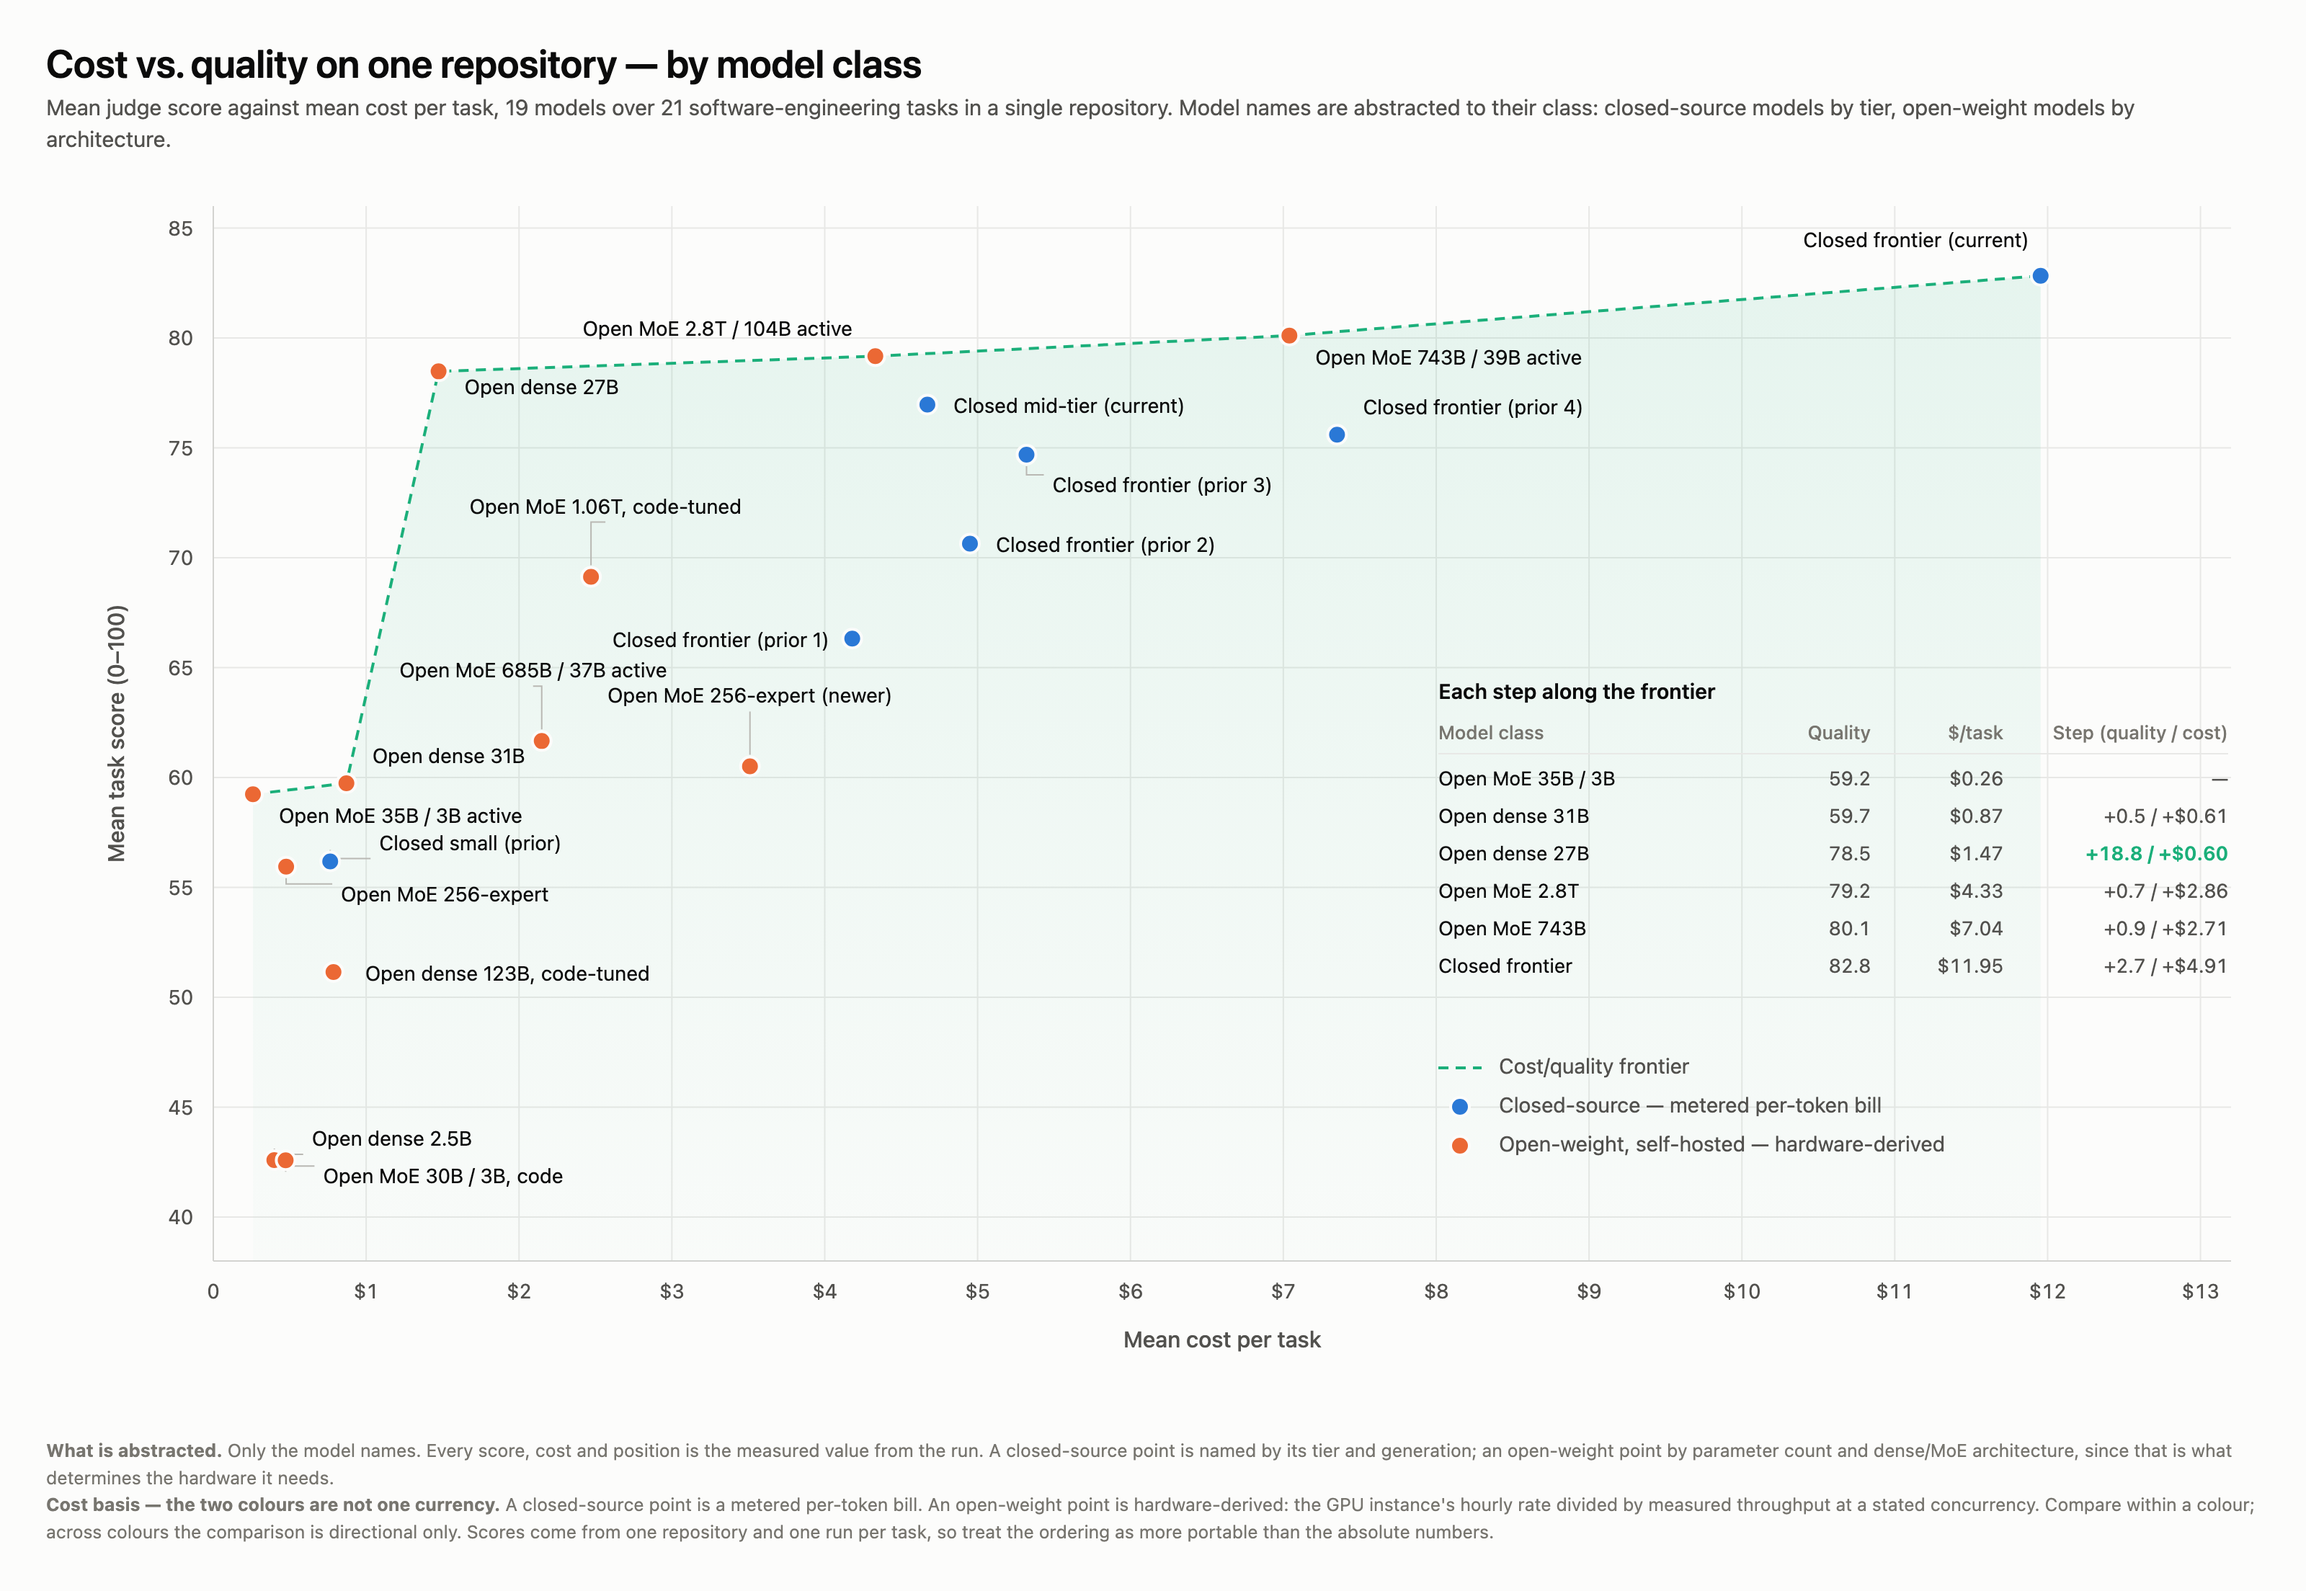
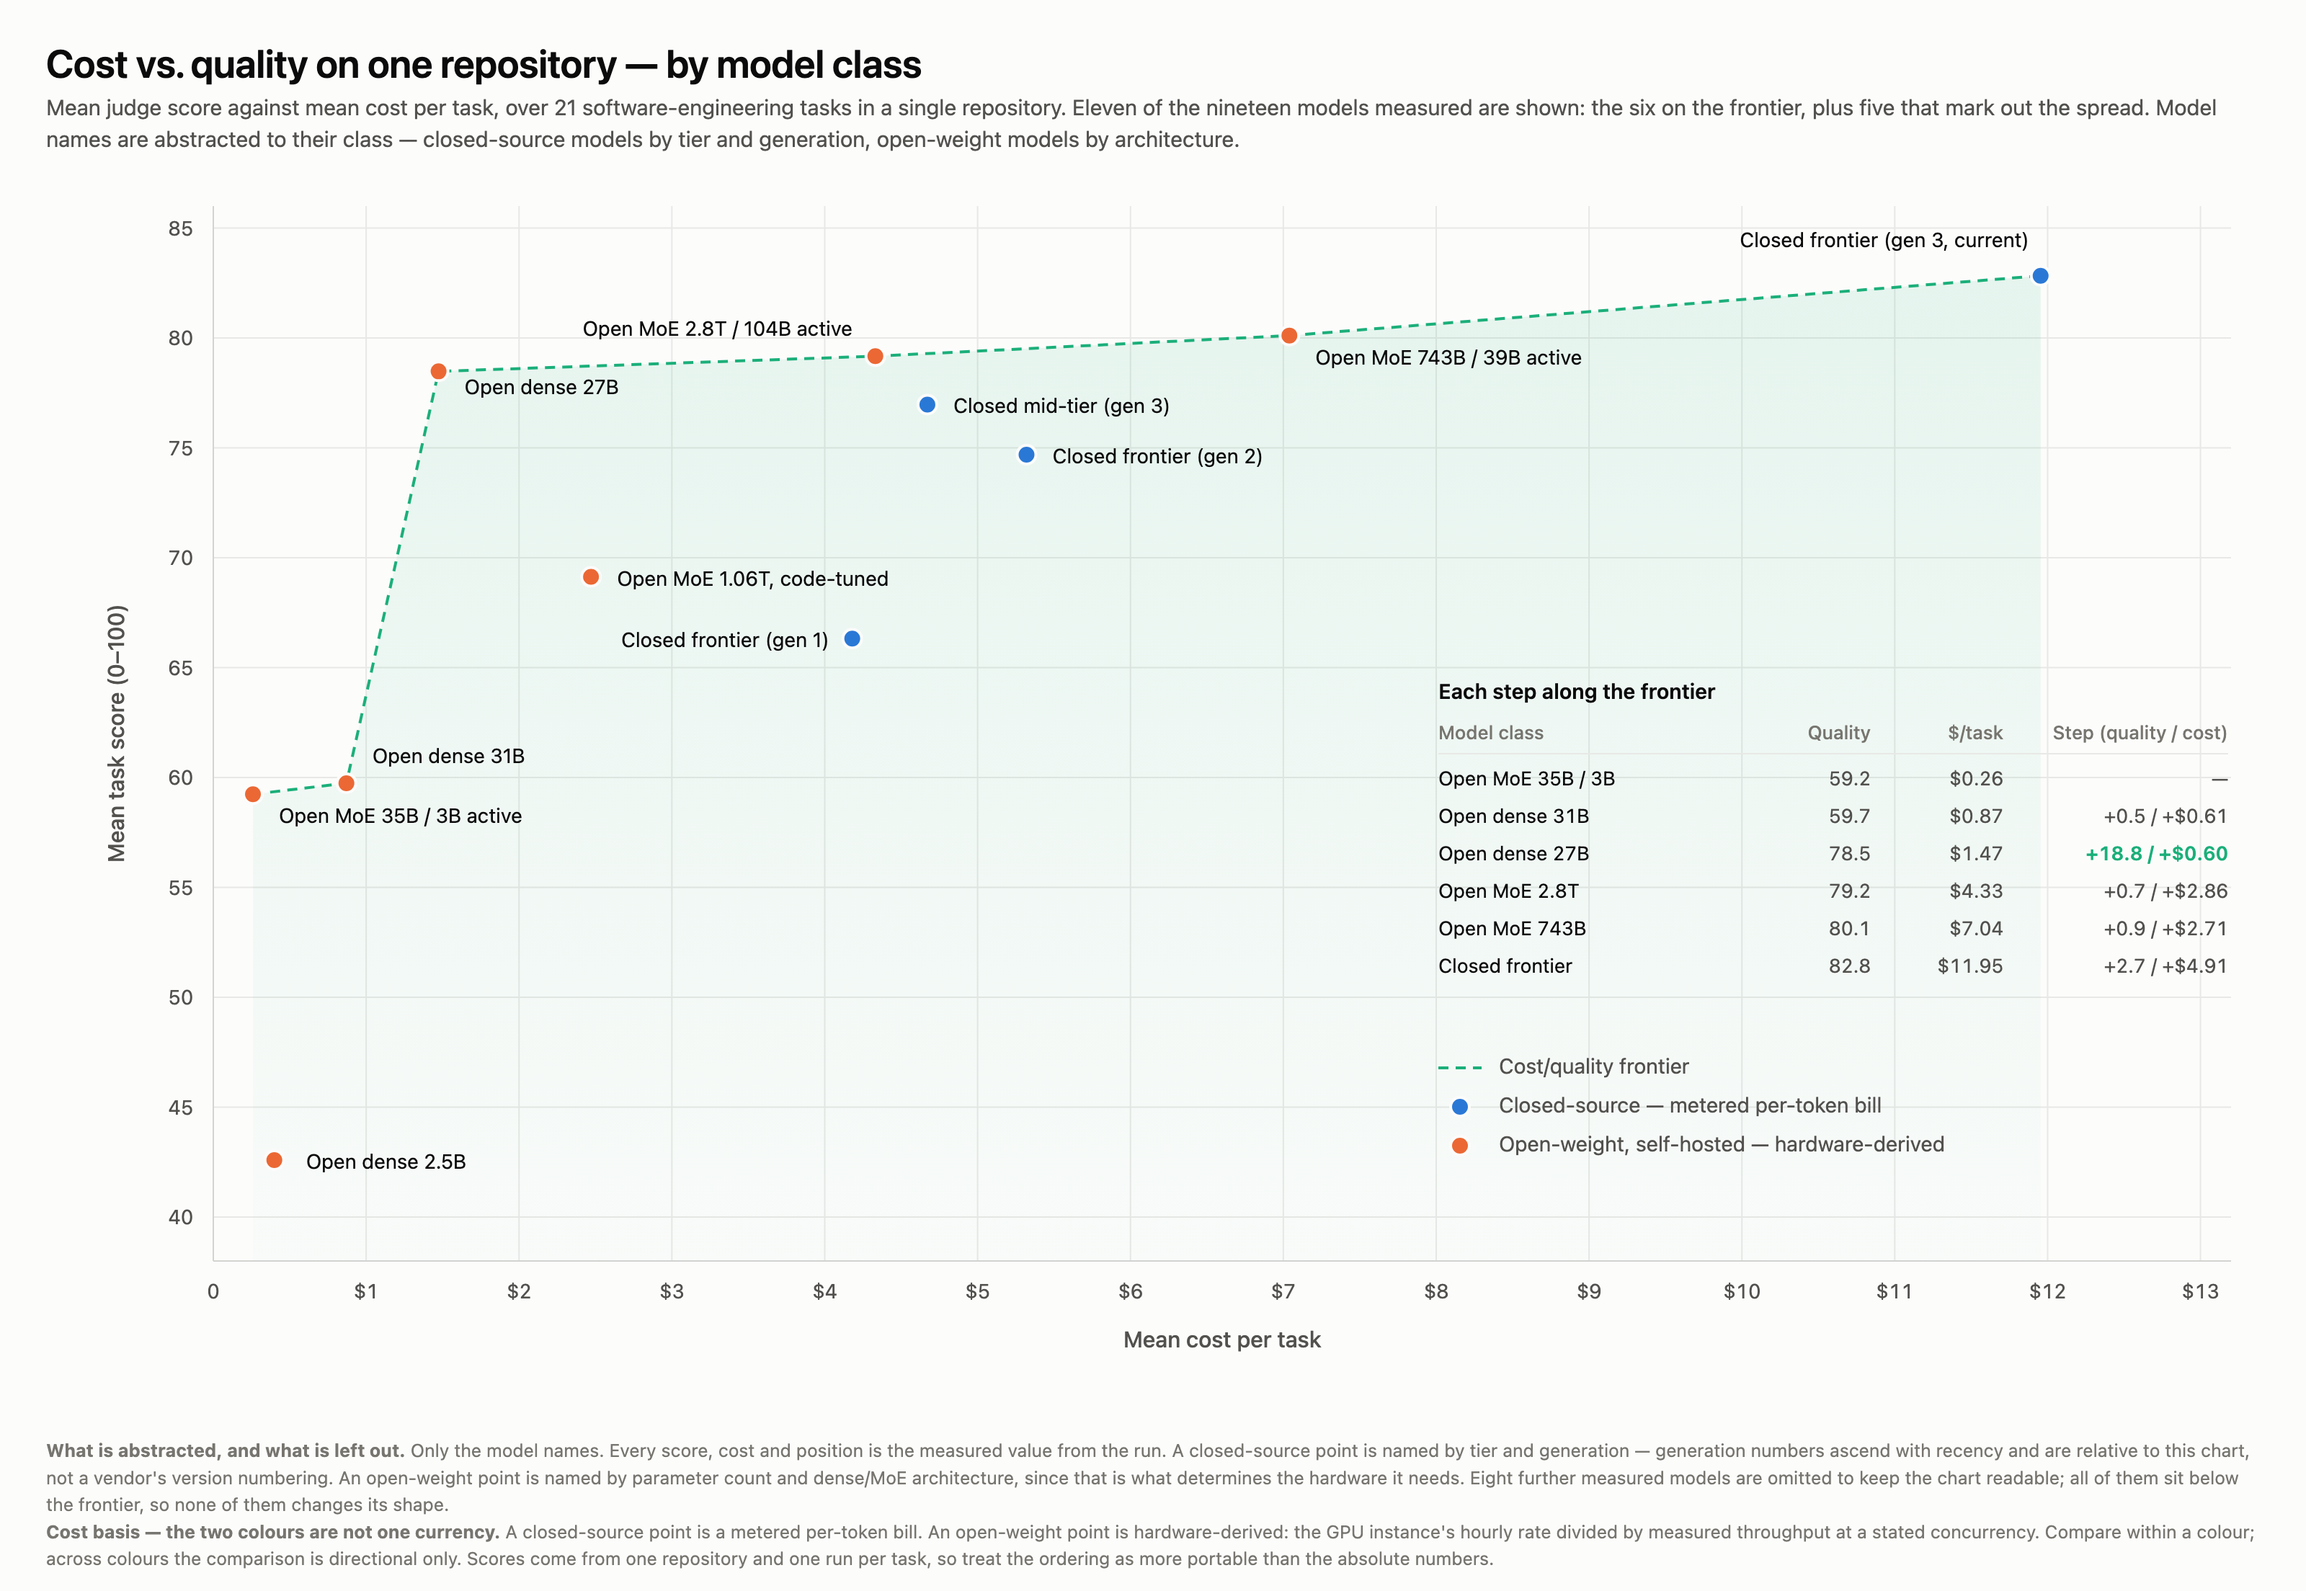
Simplify the cost/quality diagram: fewer points, generation labels
Two changes, both for readability.

Dropped eight of the nineteen plotted points. Every one of them sat below the
frontier, so the frontier's shape is unchanged -- what goes is clutter, not
information. Eleven remain: all six frontier points, plus five that each make a
distinct point about the spread. The closed mid-tier point stays because it is
the sharpest contrast on the chart (an open-weight 27B dense model scores higher
for roughly a third of the cost per task); the 1.06T code-tuned point stays
because it shows that a much larger model can land well below the frontier; the
2.5B point stays to mark the bottom of the measured range.

With eight fewer labels there is enough room to place every remaining one
directly beside its marker, so all the leader lines are gone too.

Renamed the closed-source generations from "prior 1..4" to "gen 1..3", ascending
with recency. The caption states that these are relative to this chart and are
not a vendor's version numbering.

Also updated, to keep the figure honest about its own subsetting: the subtitle,
the footnote, the README alt text and caption, and the SVG aria-label -- which
still claimed 19 classes and now also describes the shape for a screen reader.

Verified against docs/metrics/pareto-frontier-omp-swe3.json: all 11 points match
on score, cost and hosting class; all six frontier points are present; and no
omitted model is on the frontier, so the caption's claim holds.

diff --git a/docs/diagrams/cost-quality-abstracted.html b/docs/diagrams/cost-quality-abstracted.html
@@ -78,12 +78,13 @@
 <div class="viz-root">
   <h1 class="viz-title">Cost vs. quality on one repository — by model class</h1>
   <p class="viz-sub">
-    Mean judge score against mean cost per task, 19 models over 21 software-engineering tasks in a single repository.
-    Model names are abstracted to their class: closed-source models by tier, open-weight models by architecture.
+    Mean judge score against mean cost per task, over 21 software-engineering tasks in a single repository.
+    Eleven of the nineteen models measured are shown: the six on the frontier, plus five that mark out the spread.
+    Model names are abstracted to their class — closed-source models by tier and generation, open-weight models by architecture.
   </p>
 
   <svg id="chart" viewBox="0 0 1536 872" width="1536" height="872"
-       role="img" aria-label="Scatter plot of mean task score against mean cost per task for 19 model classes, with a cost/quality frontier.">
+       role="img" aria-label="Scatter plot of mean task score against mean cost per task for eleven model classes — the six on the cost/quality frontier plus five off it. A dashed line connects the frontier points, which step steeply from 59 to 78 points of score for under a dollar more per task, then rise only a few points across the remaining tenfold increase in cost.">
     <defs>
       <linearGradient id="frontFill" x1="0" y1="0" x2="0" y2="1">
         <stop offset="0%"   stop-color="#1baf7a" stop-opacity="0.10"/>
@@ -94,9 +95,10 @@
   </svg>
 
   <p class="viz-note">
-    <strong>What is abstracted.</strong> Only the model names. Every score, cost and position is the measured value from the run.
-    A closed-source point is named by its tier and generation; an open-weight point by parameter count and dense/MoE architecture,
-    since that is what determines the hardware it needs.
+    <strong>What is abstracted, and what is left out.</strong> Only the model names. Every score, cost and position is the measured value from the run.
+    A closed-source point is named by tier and generation — generation numbers ascend with recency and are relative to this chart, not a vendor's version numbering.
+    An open-weight point is named by parameter count and dense/MoE architecture, since that is what determines the hardware it needs.
+    Eight further measured models are omitted to keep the chart readable; all of them sit below the frontier, so none of them changes its shape.
     <br>
     <strong>Cost basis — the two colours are not one currency.</strong> A closed-source point is a metered per-token bill.
     An open-weight point is hardware-derived: the GPU instance's hourly rate divided by measured throughput at a stated concurrency.
@@ -106,29 +108,24 @@
 </div>
 
 <script>
+// A readable subset of the 19 models measured: the six on the frontier, plus five
+// off-frontier points that each make a distinct point about the spread. Generation
+// numbers ascend with recency and are relative to this set only.
 const DATA = [
   // closed-source, metered bill
-  { c: 11.9543, s: 82.83, k: 'closed', label: 'Closed frontier (current)',  la: 'end',    dx:  -8, dy: -20 },
-  { c:  4.6715, s: 76.97, k: 'closed', label: 'Closed mid-tier (current)',  la: 'start',  dx:  18, dy:   6 },
-  { c:  7.3514, s: 75.60, k: 'closed', label: 'Closed frontier (prior 4)',  la: 'start',  dx:  18, dy: -14 },
-  { c:  5.3200, s: 74.69, k: 'closed', label: 'Closed frontier (prior 3)',  la: 'start',  dx:  18, dy:  26, leader: true },
-  { c:  4.9500, s: 70.64, k: 'closed', label: 'Closed frontier (prior 2)',  la: 'start',  dx:  18, dy:   6 },
-  { c:  4.1800, s: 66.32, k: 'closed', label: 'Closed frontier (prior 1)',  la: 'end',    dx: -16, dy:   6 },
-  { c:  0.7648, s: 56.18, k: 'closed', label: 'Closed small (prior)',       la: 'start',  dx:  34, dy:  -8, leader: true },
+  { c: 11.9543, s: 82.83, k: 'closed', label: 'Closed frontier (gen 3, current)', la: 'end',   dx:  -8, dy: -20 },
+  { c:  4.6715, s: 76.97, k: 'closed', label: 'Closed mid-tier (gen 3)',          la: 'start', dx:  18, dy:   6 },
+  { c:  5.3200, s: 74.69, k: 'closed', label: 'Closed frontier (gen 2)',          la: 'start', dx:  18, dy:   6 },
+  { c:  4.1800, s: 66.32, k: 'closed', label: 'Closed frontier (gen 1)',          la: 'end',   dx: -16, dy:   6 },
 
   // open-weight, self-hosted, hardware-derived
-  { c:  7.0397, s: 80.11, k: 'open',   label: 'Open MoE 743B / 39B active', la: 'start',  dx:  18, dy:  20 },
-  { c:  4.3310, s: 79.17, k: 'open',   label: 'Open MoE 2.8T / 104B active',la: 'end',    dx: -16, dy: -14 },
-  { c:  1.4738, s: 78.48, k: 'open',   label: 'Open dense 27B',             la: 'start',  dx:  18, dy:  16 },
-  { c:  2.4709, s: 69.13, k: 'open',   label: 'Open MoE 1.06T, code-tuned', la: 'middle', dx:  10, dy: -44, leader: true },
-  { c:  2.1485, s: 61.66, k: 'open',   label: 'Open MoE 685B / 37B active', la: 'middle', dx:  -6, dy: -44, leader: true },
-  { c:  3.5108, s: 60.51, k: 'open',   label: 'Open MoE 256-expert (newer)',la: 'middle', dx:   0, dy: -44, leader: true },
-  { c:  0.8708, s: 59.74, k: 'open',   label: 'Open dense 31B',             la: 'start',  dx:  18, dy: -14 },
-  { c:  0.2594, s: 59.24, k: 'open',   label: 'Open MoE 35B / 3B active',   la: 'start',  dx:  18, dy:  20 },
-  { c:  0.4765, s: 55.94, k: 'open',   label: 'Open MoE 256-expert',        la: 'start',  dx:  38, dy:  24, leader: true },
-  { c:  0.7862, s: 51.15, k: 'open',   label: 'Open dense 123B, code-tuned',la: 'start',  dx:  22, dy:   6 },
-  { c:  0.3993, s: 42.59, k: 'open',   label: 'Open dense 2.5B',            la: 'start',  dx:  26, dy: -10, leader: true },
-  { c:  0.4733, s: 42.58, k: 'open',   label: 'Open MoE 30B / 3B, code',    la: 'start',  dx:  26, dy:  16, leader: true },
+  { c:  7.0397, s: 80.11, k: 'open',   label: 'Open MoE 743B / 39B active',       la: 'start', dx:  18, dy:  20 },
+  { c:  4.3310, s: 79.17, k: 'open',   label: 'Open MoE 2.8T / 104B active',      la: 'end',   dx: -16, dy: -14 },
+  { c:  1.4738, s: 78.48, k: 'open',   label: 'Open dense 27B',                   la: 'start', dx:  18, dy:  16 },
+  { c:  2.4709, s: 69.13, k: 'open',   label: 'Open MoE 1.06T, code-tuned',       la: 'start', dx:  18, dy:   6 },
+  { c:  0.8708, s: 59.74, k: 'open',   label: 'Open dense 31B',                   la: 'start', dx:  18, dy: -14 },
+  { c:  0.2594, s: 59.24, k: 'open',   label: 'Open MoE 35B / 3B active',         la: 'start', dx:  18, dy:  20 },
+  { c:  0.3993, s: 42.59, k: 'open',   label: 'Open dense 2.5B',                  la: 'start', dx:  22, dy:   6 },
 ];
 
 // The cost/quality frontier: nothing scores at least as high for at most the cost.

diff --git a/README.md b/README.md
@@ -46,9 +46,9 @@ One command per model. The `/benchmark` skill runs the pre-flight checks, the ha
 
 `agent` names the coding agent that drives the task and defaults to `claude`. The same flow runs headless from [`run-e2e-benchmark.sh`](benchmarks/scripts/run-e2e-benchmark.sh) (`--provider bedrock|litellm|vllm --model ... --dataset ... --agent claude|pi|omp|kiro|codex --skill swe2|swe3`). Repeat across your model list, then the generators plot the cost/quality frontier for your repo and model set.
 
-![Cost versus quality for 19 model classes on one repository. Model names are abstracted: closed-source models are named by tier, open-weight models by parameter count and dense or MoE architecture. A dashed frontier connects the models that nothing else beats on both score and cost.](docs/images/cost-quality-abstracted.png)
+![Cost versus quality for eleven model classes on one repository: the six on the cost/quality frontier plus five that mark out the spread. Model names are abstracted — closed-source models by tier and generation, open-weight models by parameter count and dense or MoE architecture. A dashed frontier connects the models that nothing else beats on both score and cost.](docs/images/cost-quality-abstracted.png)
 
-**What the shape tells you, and why you should measure your own.** The frontier is a step function, not a line: most of the quality is reached early and cheaply, and past that point each further point of score costs several times more per task. Where those steps fall depends on your code, your tasks and your hardware — the picture above is one repository and one run per task, so the useful output is the *shape*, not the numbers. Model identities are abstracted to their class deliberately: the class is what tells you the hardware a model needs, and that is the part that transfers. Regenerate it for your own repositories with the chart scripts in [`benchmarks/scripts/`](benchmarks/scripts/). The source for this diagram is [`docs/diagrams/cost-quality-abstracted.html`](docs/diagrams/cost-quality-abstracted.html).
+**What the shape tells you, and why you should measure your own.** The frontier is a step function, not a line: most of the quality is reached early and cheaply, and past that point each further point of score costs several times more per task. Where those steps fall depends on your code, your tasks and your hardware — the picture above is one repository and one run per task, so the useful output is the *shape*, not the numbers. Eleven of the nineteen models measured are plotted; the eight left out all sit below the frontier, so none of them changes its shape. Model identities are abstracted to their class deliberately: the class is what tells you the hardware a model needs, and that is the part that transfers. Regenerate it for your own repositories with the chart scripts in [`benchmarks/scripts/`](benchmarks/scripts/). The source for this diagram is [`docs/diagrams/cost-quality-abstracted.html`](docs/diagrams/cost-quality-abstracted.html).
 
 ## Step 2 — Developers install the skill
 
